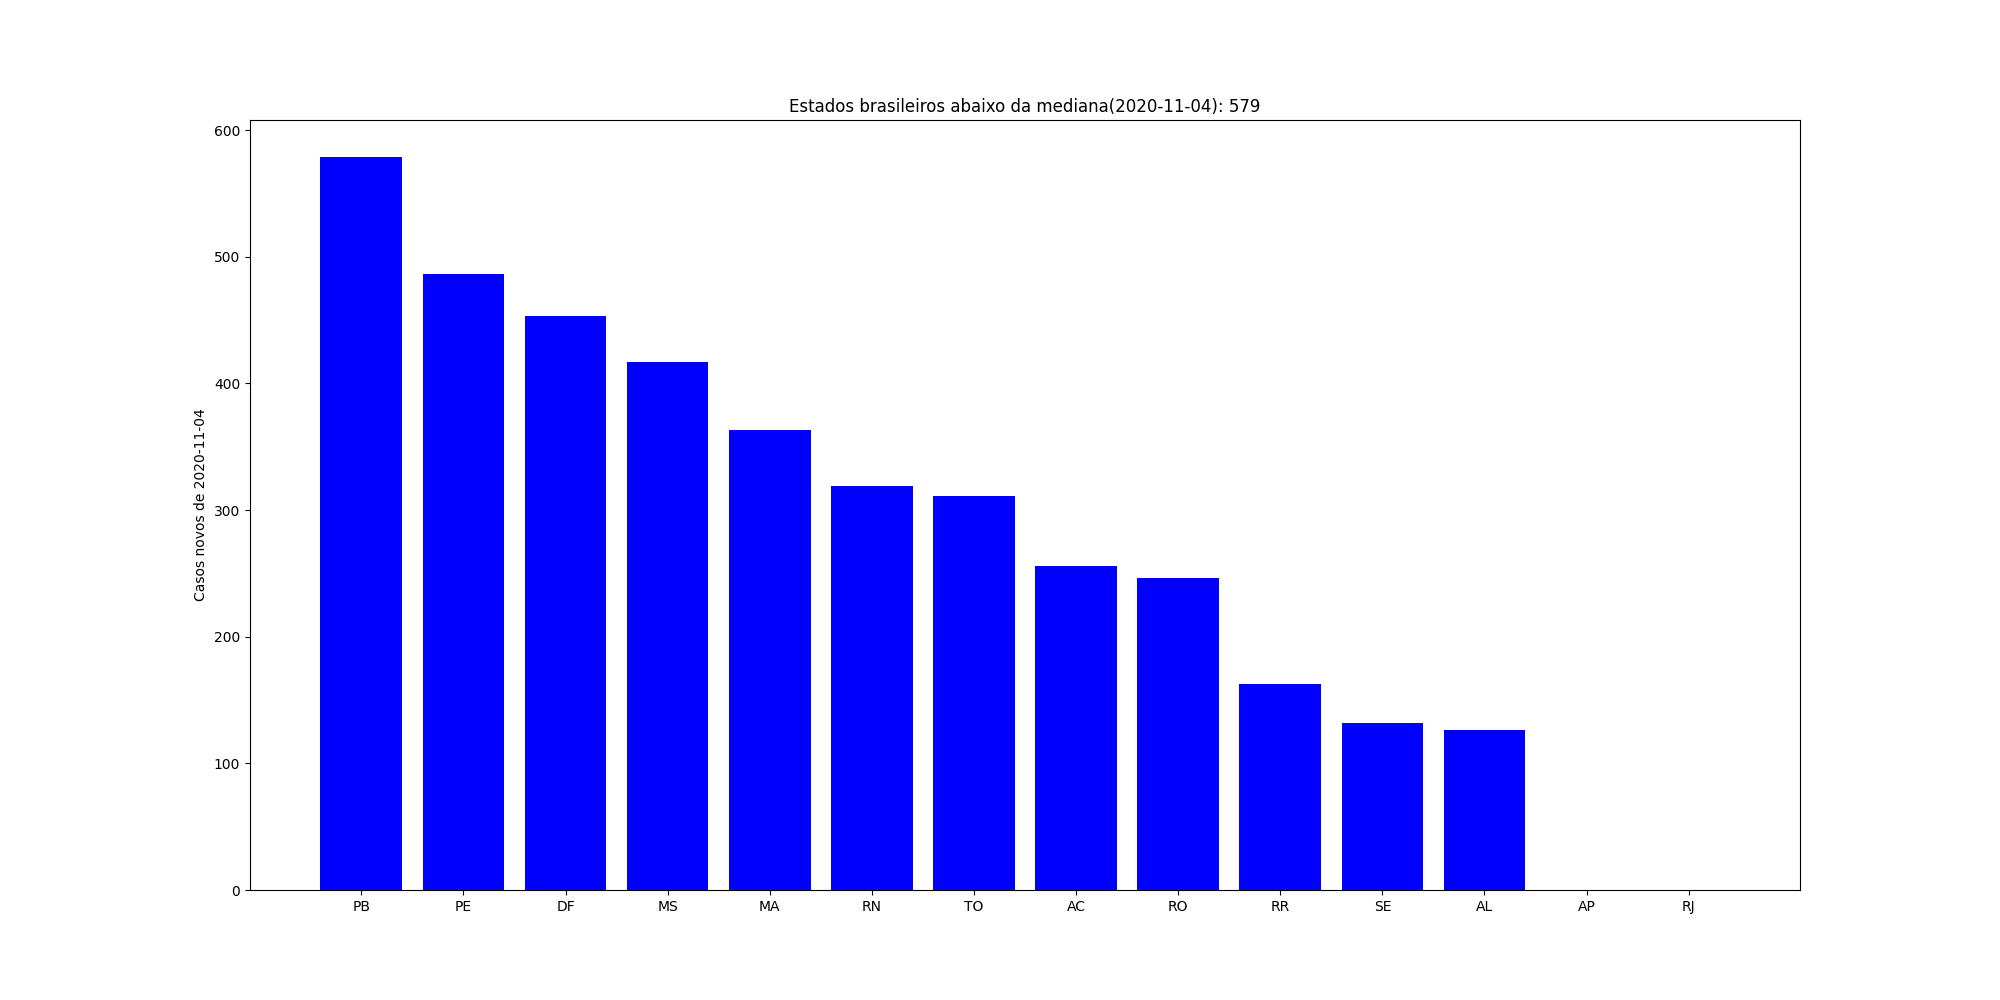
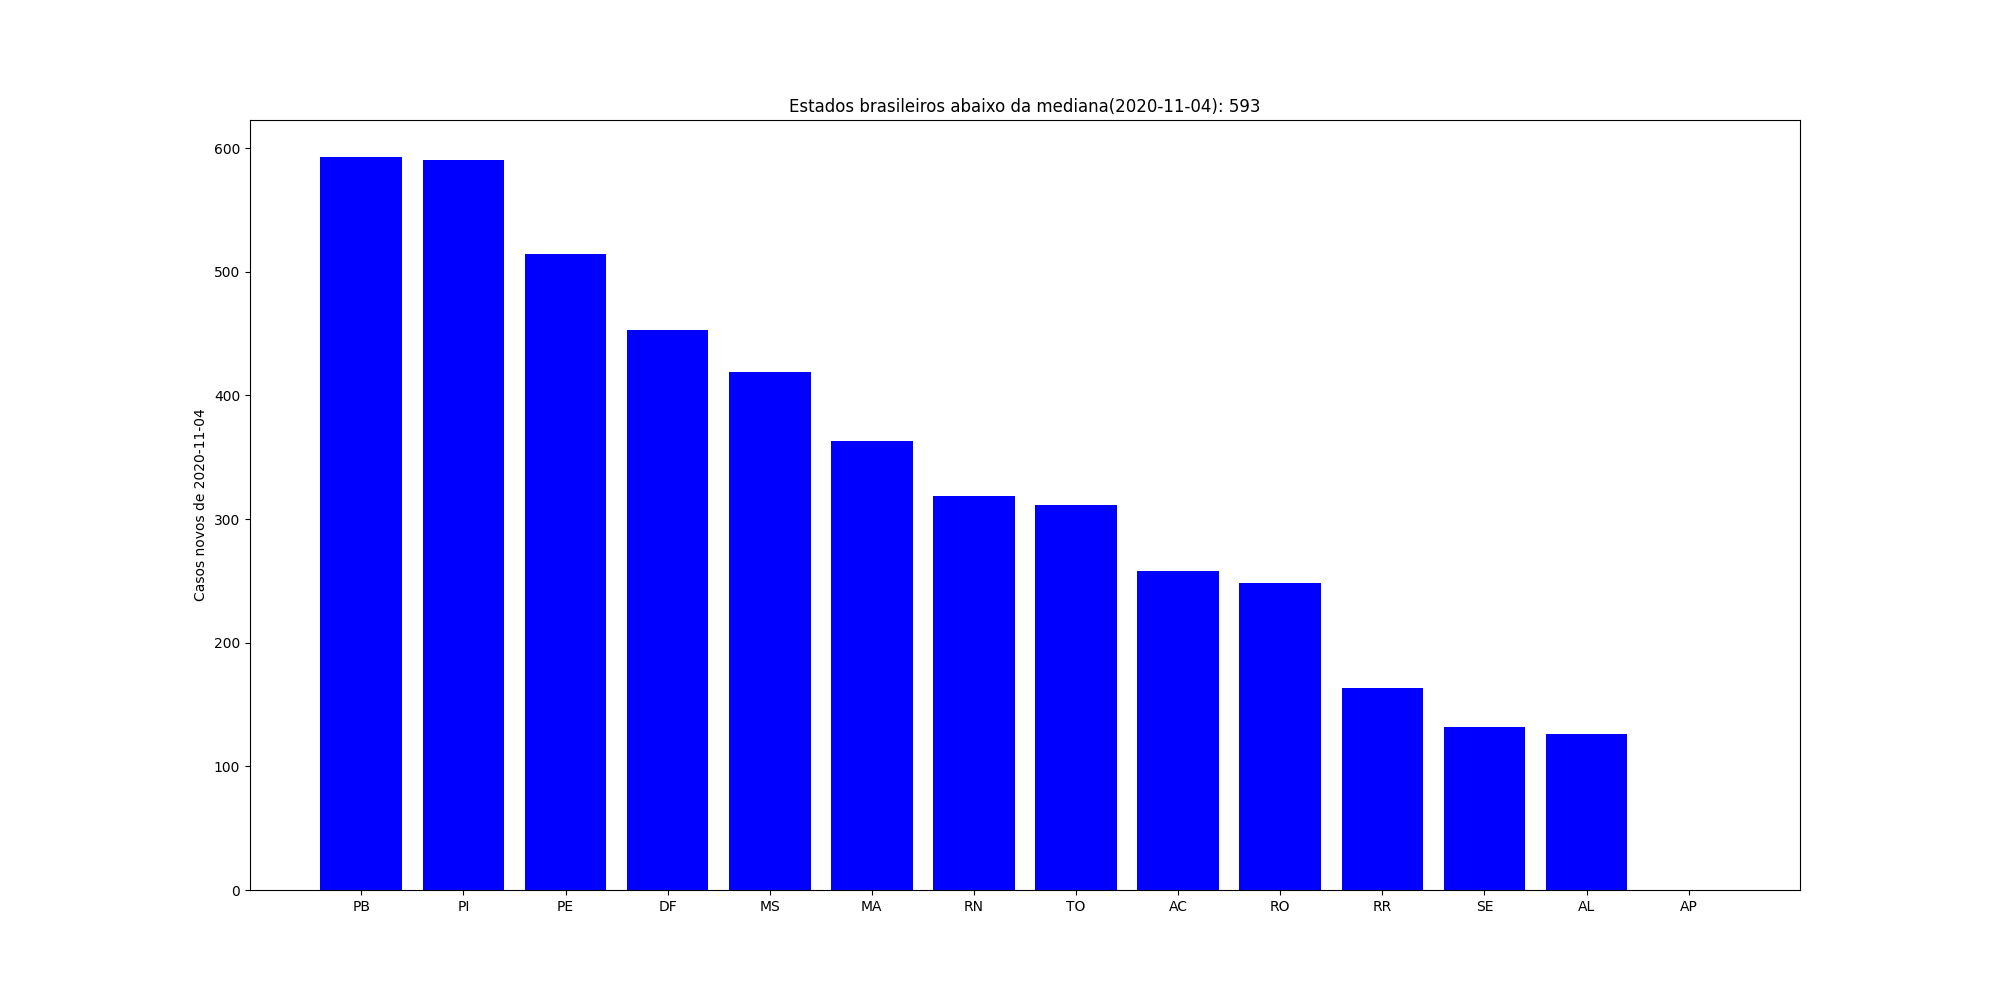
pegar valor abs

diff --git a/DataExtraction/CSVFileReader.py b/DataExtraction/CSVFileReader.py
@@ -1,8 +1,6 @@
 import pandas as pd
 import os
 import collections
-from datetime import date
-from concurrent.futures import ProcessPoolExecutor
 import zipfile
 
 
@@ -22,62 +20,33 @@ class CSVFileReader:
     def retornar_estados(self):
         return [item for item, count in collections.Counter(self.df["estado"]).items() if count > 1 and item.__class__.__name__ == "str"]
 
-    def retornar_casos_novos_por_estado(self, estado):
-        aux_df = self.df.loc[(self.df["estado"] == estado) & (
-            self.df["data"] == self.ultimo_registro) & (self.df["municipio"].notnull())]
-        casos = 0
-        for index, casosNovos in aux_df.iterrows():
-            casos += casosNovos["casosNovos"]
-        return casos
-
-    def retornar_casos_acumulados_por_estado(self, estado):
-        aux_df = self.df.loc[(self.df["estado"] == estado) & (
-            self.df["data"] == self.ultimo_registro) & (self.df["municipio"].notnull())]
-        casos = 0
-        for index, casosAcumulado in aux_df.iterrows():
-            casos += casosAcumulado["casosAcumulado"]
-        return casos
-
-    def retornar_obitos_acumulados_por_estado(self, estado):
-        aux_df = self.df.loc[(self.df["estado"] == estado) & (
-            self.df["data"] == self.ultimo_registro) & (self.df["municipio"].notnull())]
-        obitos = 0
-        for index, obitosAcumulado in aux_df.iterrows():
-            obitos += obitosAcumulado["obitosAcumulado"]
-        return obitos
-    
     def retornar_dados(self, estado, colunas):
-      aux_df = self.df.loc[(self.df["estado"] == estado) & (
+        aux_df = self.df.loc[(self.df["estado"] == estado) & (
             self.df["data"] == self.ultimo_registro) & (self.df["municipio"].notnull())]
-      contadores = []
-      for i in range(len(colunas)):
-        contadores.append(0)
-      for index, dados in aux_df.iterrows():
+        contadores = []
         for i in range(len(colunas)):
-          contadores[i] += dados[colunas[i]]
-      return contadores
+            contadores.append(0)
+        for index, dados in aux_df.iterrows():
+            for i in range(len(colunas)):
+                numero = dados[colunas[i]]
+                contadores[i] += abs(numero)
+        return contadores
 
     def retornar_dados_covid(self):
         dados = dict()
         for estado in self.retornar_estados():
-            dadosCsv = self.retornar_dados(estado, ["casosAcumulado", "obitosAcumulado", "casosNovos"])
+            dadosCsv = self.retornar_dados(
+                estado, ["casosAcumulado", "obitosAcumulado", "casosNovos"])
             dados[estado] = {
-              "casosAcumulados": dadosCsv[0],
-              "obitosAcumulados": dadosCsv[1],
-              "casosNovos": dadosCsv[2]
+                "casosAcumulados": dadosCsv[0],
+                "obitosAcumulados": dadosCsv[1],
+                "casosNovos": dadosCsv[2]
             }
-            # dados[estado] = {
-            #     "casosAcumulados": self.retornar_casos_acumulados_por_estado(estado),
-            #     "obitosAcumulados": self.retornar_obitos_acumulados_por_estado(estado),
-            #     "casosNovos": self.retornar_casos_novos_por_estado(estado),
-            # }
         return dados
 
 
 if __name__ == "__main__":
-    csv = CSVFileReader("HIST_PAINEL_COVIDBR_28out2020.zip", "2020-10-28")
+    csv = CSVFileReader("HIST_PAINEL_COVIDBR_04nov2020.zip", "2020-11-04")
+    dados = csv.retornar_dados("RJ", ["casosNovos"])
     os.remove(os.path.join(os.getcwd().split(
-        "DataExtraction")[0], "DataFiles", "HIST_PAINEL_COVIDBR_28out2020.csv"))
-    # dados = csv.retornar_dados_covid(1)
-    # b = dados["CE"]["casosAcumulados"].result()
-    # print(b)
+        "DataExtraction")[0], "DataFiles", "HIST_PAINEL_COVIDBR_04nov2020.csv"))
